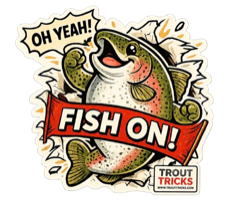
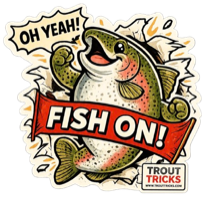
Crop sticker-fish-on.png to its artwork bbox (centering fix)
The PNG canvas (240x206) had asymmetric transparent padding —
26px on the right vs 14px on the left, 9px bottom vs 4px top —
which made the artwork appear off-center even when CSS centered
the canvas. Cropped tight to the bbox (204x197 + 2px margin) so
geometric centering now visually centers the artwork. Also swap
the homepage feature card image rule from object-fit/100% sizing
to flex-center + max-bound, more predictable across browsers.

diff --git a/index.html b/index.html
@@ -845,11 +845,15 @@
     aspect-ratio: 1 / 1;
     overflow: hidden;
     padding: 28px;
+    display: flex;
+    align-items: center;
+    justify-content: center;
   }
   .sticker-feature .sf-img img {
-    width: 100%; height: 100%;
-    object-fit: contain;
-    object-position: center;
+    max-width: 100%;
+    max-height: 100%;
+    width: auto;
+    height: auto;
     display: block;
     transition: transform 0.4s ease;
   }